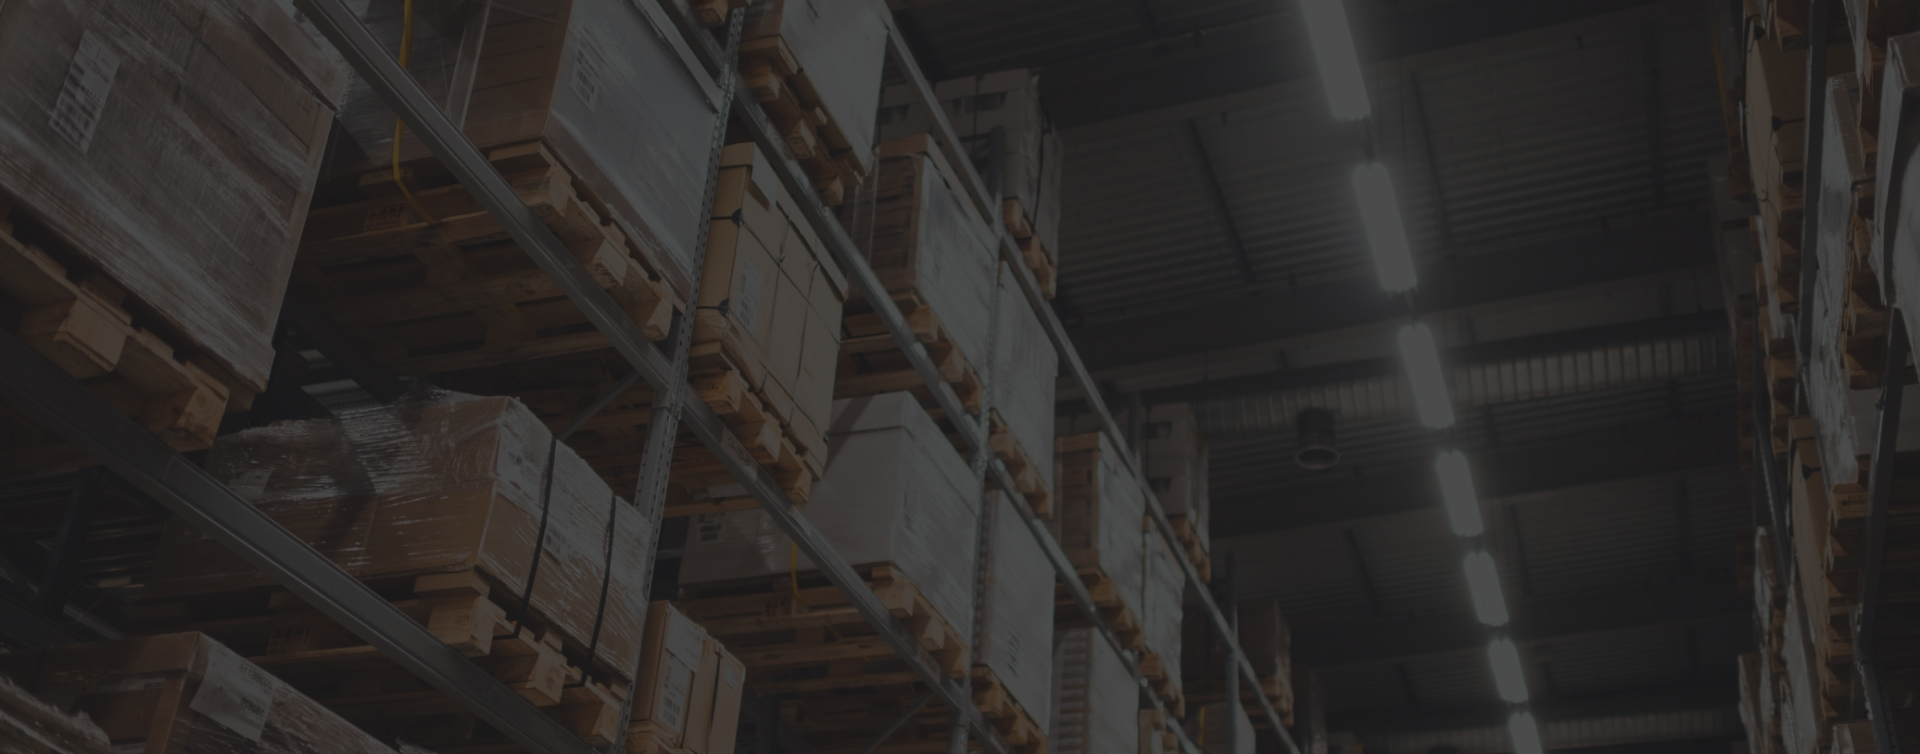
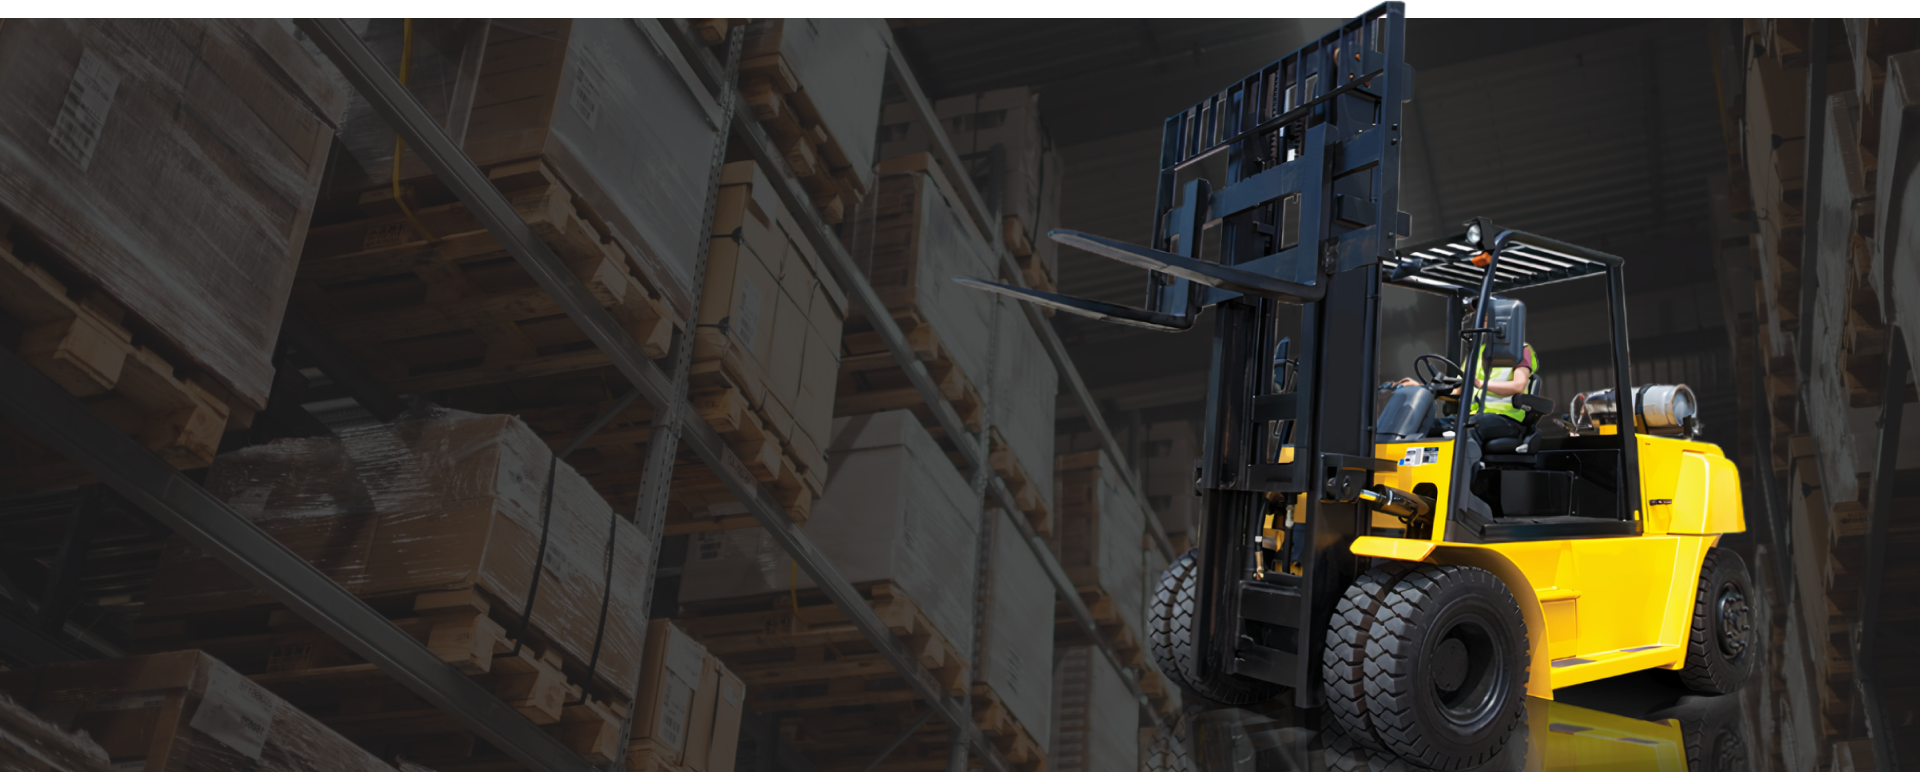
about block end

diff --git a/index.html b/index.html
@@ -188,13 +188,48 @@
         </section>
 
         <section class="about">
-          <img src="./img/pogr.png" alt="">
+          
           <div class="container">
-            <h3 class="about__title">ТОЛЬКО КАЧЕСТВЕННЫЕ ТОВАРЫ, 
-              БОЛЬШОЙ ОПЫТ И ШИРОКИЙ АССОРТИМЕНТ ДЛЯ ВЫБОРА</h3>
-              
+            <div class="about__content">
+            <h3 class="about__title">ТОЛЬКО <span>КАЧЕСТВЕННЫЕ ТОВАРЫ</span> , 
+              БОЛЬШОЙ ОПЫТ И <span> ШИРОКИЙ АССОРТИМЕНТ</span>  ДЛЯ ВЫБОРА</h3>
+              <ul class="about__list">
+                <li class="about__item">
+                  <div class="about__item_content">
+                    <h4 class="about__item_title">16</h4>
+                    <h4 class="about__item_subtitle">лет на рынке</h4>
+                    <p class="about__item_text">Внушительный опыт работы, надежность и стабильность предприятия</p>
+                  </div>
+                </li>
+                <li class="about__item">
+                  <div class="about__item_content">
+                    <h4 class="about__item_title">200</h4>
+                    <h4 class="about__item_subtitle">типов оборудования</h4>
+                    <p class="about__item_text">Огромный выбор крутых решений высокого
+                      качества.</p>
+                  </div>
+                </li>
+                <li class="about__item">
+                  <div class="about__item_content">
+                    <h4 class="about__item_title">100</h4>
+                    <h4 class="about__item_subtitle">опытных специалистов</h4>
+                    <p class="about__item_text">Штат высококвалифицированых
+                      рабочих и инженеров с большим опытом.</p>
+                  </div>
+                </li>
+              </ul>
+              <div class="about__arrow_block">
+                <img src="./img/lsliderarrow.svg" alt="">
+                <img src="./img/rsliderarrow.svg" alt="">
+                <div class="arrow_block__scale">
+                  <div class="arrow_block__subscale"></div>
+                </div>
+              </div>
+          </div>
           </div>
         </section>
+
+        
 
       </main>
 

diff --git a/css/style.css b/css/style.css
@@ -16,7 +16,7 @@ body {
 }
 
 .container {
-  max-width: 1430px;
+  width: 1430px;
   margin: 0px auto;
   padding: 0 15px;
 }
@@ -377,10 +377,81 @@ body {
 /* about section */
 
 .about {
-  height: 754px;
+  height: 850px;
   background: no-repeat center url("../img/aboutbg.jpg");
+  display: flex;
 }
 
+.about__content {
+  width: 100%;
+  text-align: left;
+}
+
+.about__title {
+  margin-top: 120px;
+  max-width: 747px;
+  color:#ffffff;
+  font-weight: 700;
+  font-size: 43px;
+  line-height: 135%;
+  text-transform: uppercase;
+}
+
+.about__title span {
+  color:#FFC226;
+}
+
+.about__list {
+  display: flex;
+  list-style: none;
+}
+.about__item {
+  color: #ffffff;
+  margin-top: 26px;
+}
+.about__item_content {
+  width: 250px;
+  height: 220px;
+}
+.about__item_title {
+  font-weight: 700;
+  font-size: 93px;
+  line-height: 135%;
+  color: #FFC226;
+  margin-top: 12px;
+}
+.about__item_subtitle {
+  font-weight: 400;
+  font-size: 26px;
+  line-height: 125%;
+  margin-top: 13px;
+}
+.about__item_text {
+  font-size: 18px;
+  line-height: 125%;
+  margin-top: 12px;
+}
+.about__arrow_block {
+  margin-top: 100px;
+  display: flex;
+  align-items:center;
+}
+
+.about__arrow_block img {
+  margin-left: 36px;
+}
+
+.arrow_block__scale {
+  width: 620px;
+  height: 4px;
+  background-color:#ffffff;
+  margin-left: 48px;
+}
+.arrow_block__subscale {
+  width: 80px;
+  height: 4px;
+  background-color:#FFC226;
+}
 
 /* about section end */
 
